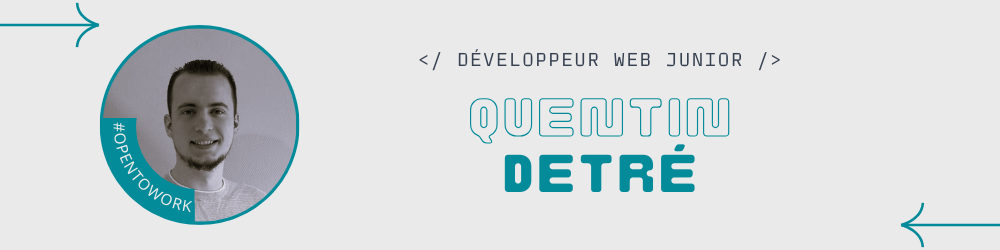
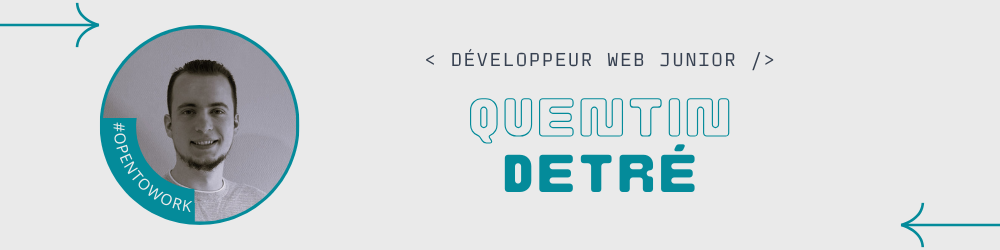
fix: changed some details for better readability v1.0.2

Changed region(s): [[0.403, 0.196, 0.775, 0.28]]

diff --git a/README.md b/README.md
@@ -2,26 +2,26 @@
   <img src="https://raw.githubusercontent.com/GallamQ/GallamQ/main/assets/banner.png" alt="Bannière profil GallamQ" width="1000" height="250"/>
 </p>
 
----
+<hr style="border: none; height: 2px; background-color: #048b9a; margin: 20px 0;">
 
-## <img src="https://img.icons8.com/?size=100&id=7820&format=png&color=048b9a" width="20" height="20"/> Qui suis-je ?
+## <img src="https://img.icons8.com/?size=100&id=7820&format=png&color=048b9a" width="18" height="18"/> Qui suis-je ?
 
 Fort d'une expérience en communication et passionné par les technologies, j'ai effectué une reconversion vers le 💻 **développement web**.
 Aujourd'hui, armé de solides compétences techniques et d'une approche centrée utilisateur, je suis **prêt à relever mon prochain défi professionnel** : contribuer au développement d'applications 🌐 web modernes et intuitives.
 
 Toujours en quête d'apprentissage, je combine créativité et rigueur technique pour donner vie aux projets qui me sont confiés.
 
----
+<hr style="border: none; height: 2px; background-color: #048b9a; margin: 20px 0;">
 
-## <img src="https://img.icons8.com/?size=100&id=1581&format=png&color=048b9a" width="20" height="20"/> Que sais-je ?
+## <img src="https://img.icons8.com/?size=100&id=1581&format=png&color=048b9a" width="18" height="18"/> Que sais-je ?
 
 <table align="center">
 <thead>
 <tr>
-<th width="25%" align="center"><b>Frontend</b></th>
-<th width="25%" align="center"><b>Backend</b></th>
-<th width="25%" align="center"><b>Databases</b></th>
-<th width="25%" align="center"><b>Tools</b></th>
+<th width="25%" align="center"><b>FRONTEND</b></th>
+<th width="25%" align="center"><b>BACKEND</b></th>
+<th width="25%" align="center"><b>DATABASES</b></th>
+<th width="25%" align="center"><b>TOOLS</b></th>
 </tr>
 </thead>
 <tbody>
@@ -65,20 +65,21 @@ Toujours en quête d'apprentissage, je combine créativité et rigueur technique
 </tbody>
 </table>
 
----
+<hr style="border: none; height: 2px; background-color: #048b9a; margin: 20px 0;">
 
-## <img src="https://img.icons8.com/?size=100&id=11240&format=png&color=048b9a" width="20" height="20"/> Que fais-je ?
+## <img src="https://img.icons8.com/?size=100&id=11240&format=png&color=048b9a" width="18" height="18"/> Que fais-je ?
 
-**Encore un peu de patience : il y en aura, des choses à voir... 🔎**
+**Encore un peu de patience : il y en aura, des choses à voir... 👀**
 
----
+<hr style="border: none; height: 2px; background-color: #048b9a; margin: 20px 0;">
 
-## <img src="https://img.icons8.com/?size=100&id=GT6L6Gn3DzSA&format=png&color=048b9a" width="20" height="20"/> Comment échange-je ?
+## <img src="https://img.icons8.com/?size=100&id=GT6L6Gn3DzSA&format=png&color=048b9a" width="18" height="18"/> Comment échange-je ?
 
-[![LinkedIn](https://img.shields.io/badge/LinkedIn-blue?logo=linkedin&style=for-the-badge)](https://www.linkedin.com/in/quentindetré)
-[![Email](https://img.shields.io/badge/Mail-Contact-green?logo=gmail&style=for-the-badge)](mailto:quentindetre@yahoo.com)
+[<img src="https://img.icons8.com/?size=100&id=8808&format=png&color=048b9a" width="28" height="28"/>](https://www.linkedin.com/in/quentindetr%C3%A9/) [**LinkedIn**](https://www.linkedin.com/in/quentindetr%C3%A9/)
+[<img src="https://img.icons8.com/?size=100&id=G3F1h1aX2vpT&format=png&color=000000" width="28" height="28"/>](mailto:quentindetre@yahoo.com) [**Yahoo**](mailto:quentindetre@yahoo.com)
 
----
+<hr style="border: none; height: 2px; background-color: #048b9a; margin: 20px 0;">
 
-## <img src="https://img.icons8.com/?size=100&id=15&format=png&color=048b9a" width="20" height="20"/> Comment contribue-je ?
+## <img src="https://img.icons8.com/?size=100&id=15&format=png&color=048b9a" width="18" height="18"/> Comment contribue-je ?
+
 ![GallamQ's GitHub stats](https://github-readme-stats.vercel.app/api?username=GallamQ&show_icons=true&theme=nord)
